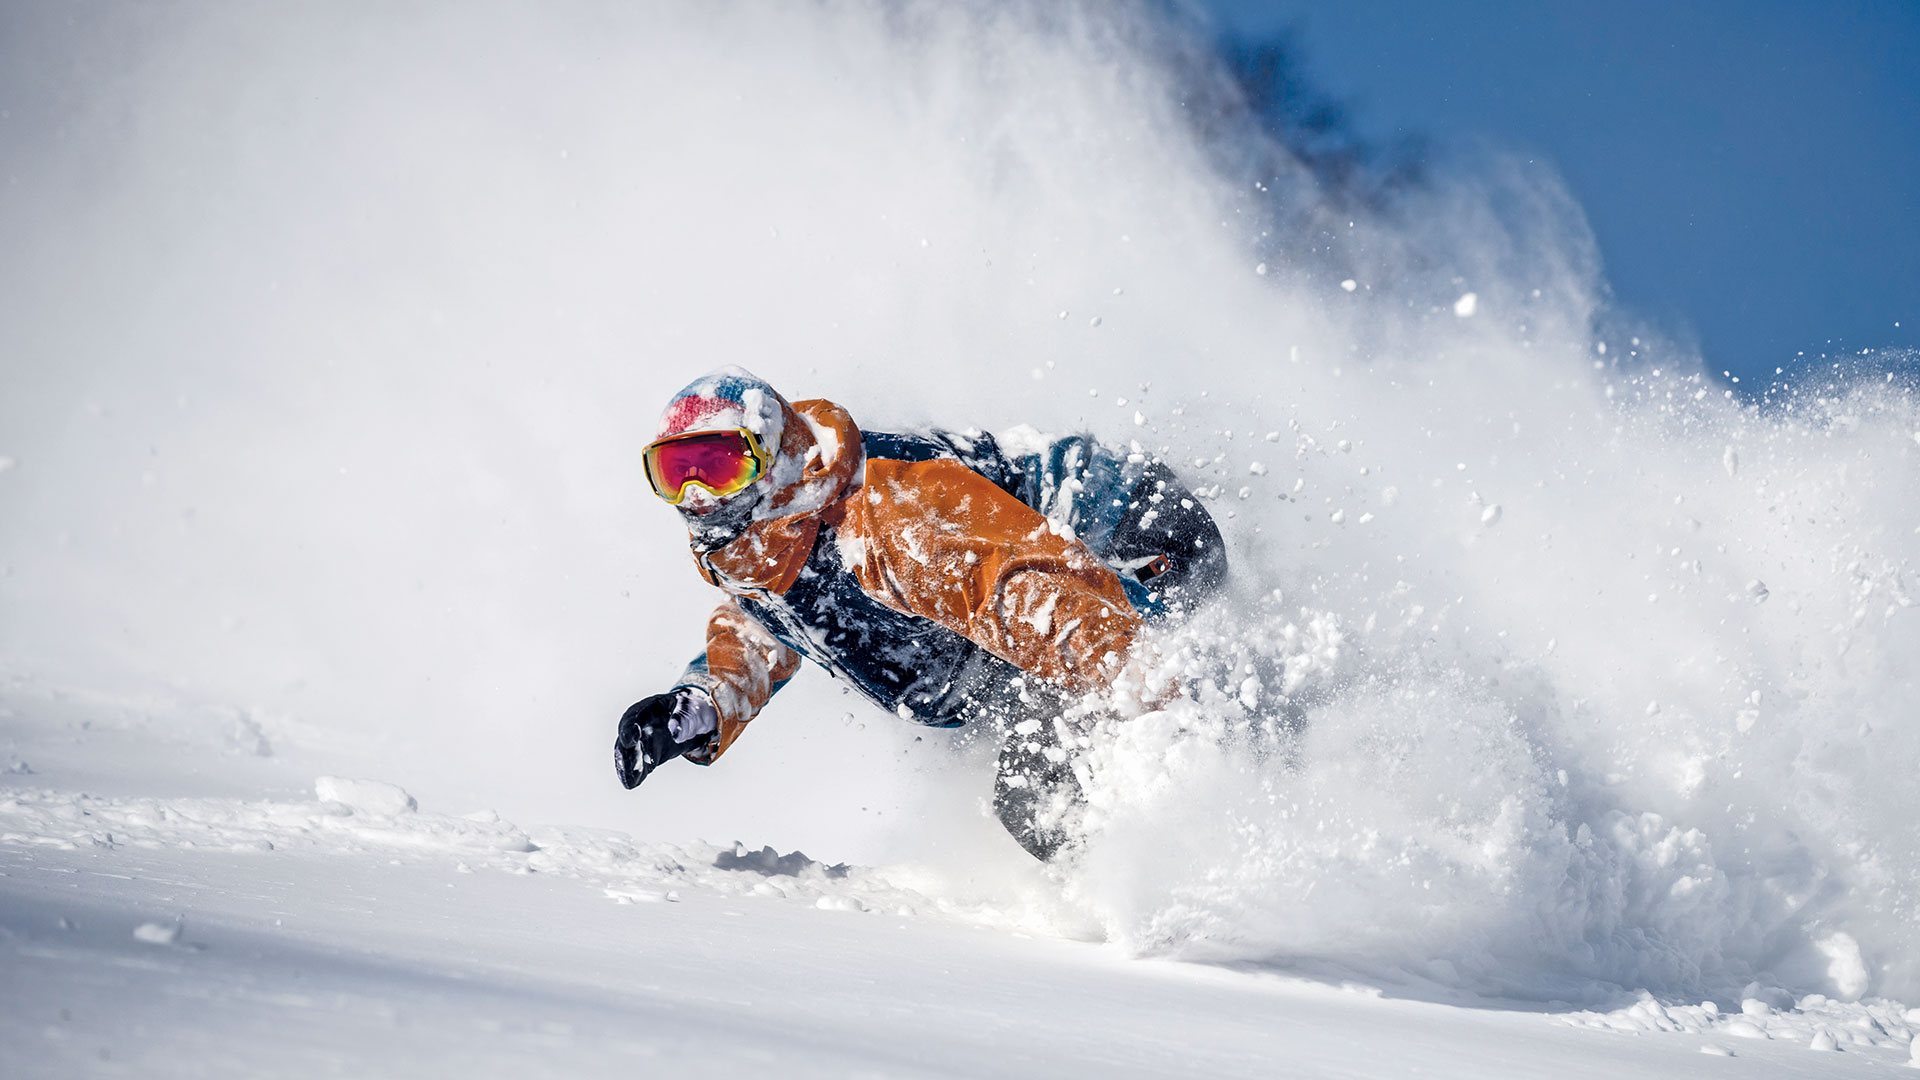
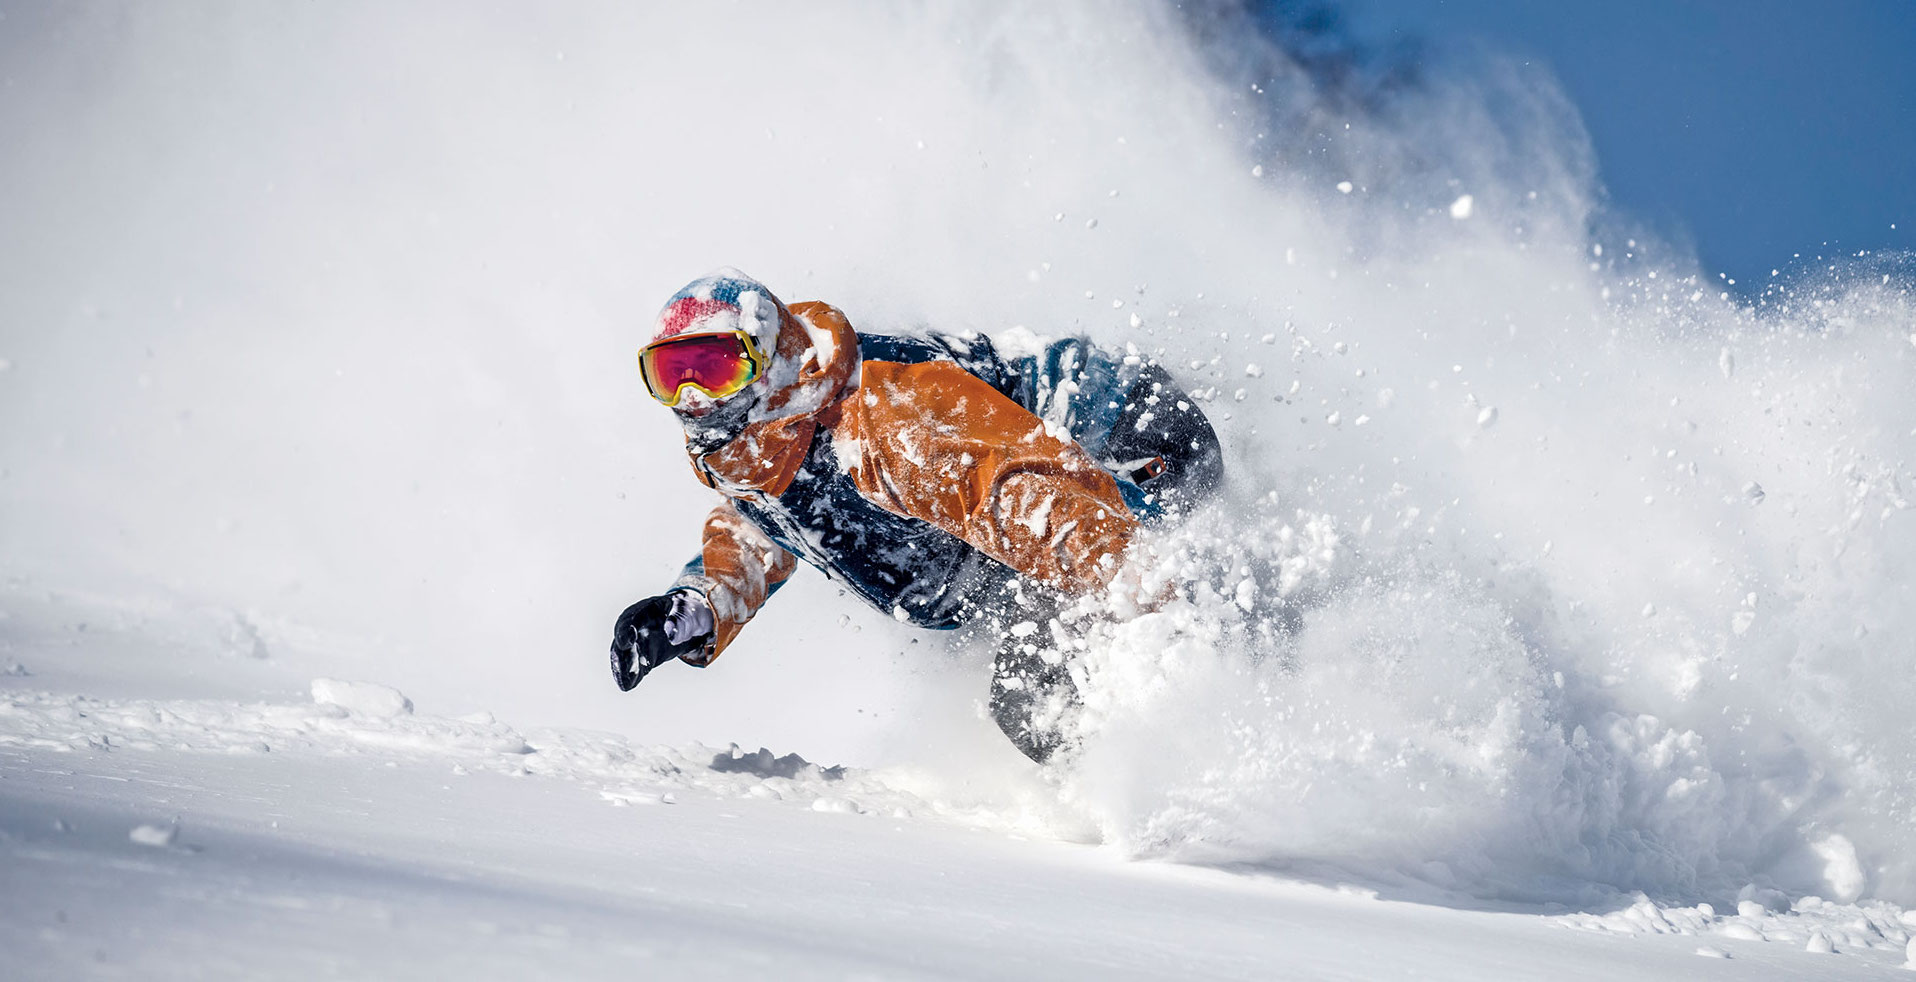
Added custom top images to snowboard and longboard video views

diff --git a/src/app/snowboards/snowboards-videos/snowboards-videos.component.html b/src/app/snowboards/snowboards-videos/snowboards-videos.component.html
@@ -1,10 +1,12 @@
 <div id="content">
   <!--<div id="content-ajax">-->
-      <div id="main">
-        <div class="container">
-          <h1 class="title-has-line text-align-center">Snowboard Videos</h1>
+	<div class="top-parallax" style="background-image:url('../../../assets/img/snowboards/videos/snowboard-video-hero.jpg')"></div>
 
-          <ul class="our-team">
+	<div id="main">
+		<div class="container">
+			<h1 class="title-has-line text-align-center">Snowboard Videos</h1>
+
+			<ul class="our-team">
 						<li class="team-member" style="background-image:url('../../../assets/img/snowboards/videos/1-Action=thumbnail&amp;Width=500&amp;Height=500&amp;algorithm=fill_proportional.png');">
 							<div class="team-overflow">
 								<div class="team-info">
@@ -307,9 +309,8 @@
 						</li>
 					</ul>
 
-
-        </div>
-      </div>
+		</div>
+	</div>
 
   <!--</div>-->
 </div>

diff --git a/src/app/longboards/longboards-videos/longboards-videos.component.html b/src/app/longboards/longboards-videos/longboards-videos.component.html
@@ -1,5 +1,7 @@
 <div id="content">
   <!--<div id="content-ajax">-->
+	<div class="top-parallax" style="background-image:url('../../../assets/img/longboards/videos/longboard-video-hero.jpg')"></div>
+
       <div id="main">
         <div class="container">
           <h1 class="title-has-line text-align-center">Longboard Videos</h1>

diff --git a/src/app/snowboards/snowboards.component.scss b/src/app/snowboards/snowboards.component.scss
@@ -4,8 +4,8 @@
 
 
 .top-parallax {
-    height: 650px;
-    top: 120px;
+    height: 690px;
+    // top: 120px;
     background-attachment: fixed;
     background-position: center;
     background-repeat: no-repeat;
@@ -14,6 +14,7 @@
 
 #main {
     margin-top: 10px;
+	padding: 40px;
 }
 
 

diff --git a/src/app/longboards/longboards-videos/longboards-videos.component.scss b/src/app/longboards/longboards-videos/longboards-videos.component.scss
@@ -1,3 +1,13 @@
+.top-parallax {
+    height: 700px;
+    top: 120px;
+    background-attachment: fixed;
+    background-position: center;
+    background-repeat: no-repeat;
+    background-size: cover;
+}
+
+
 #main {
-    padding: 200px;
+    padding: 50px;
 }

diff --git a/src/app/snowboards/snowboards-videos/snowboards-videos.component.scss b/src/app/snowboards/snowboards-videos/snowboards-videos.component.scss
@@ -1,3 +1,12 @@
+.top-parallax {
+    height: 700px;
+    top: 120px;
+    background-attachment: fixed;
+    background-position: center;
+    background-repeat: no-repeat;
+    background-size: cover;
+}
+
 #main {
-    padding: 200px;
+    padding: 50px;
 }

diff --git a/src/app/longboards/longboards-tech/longboards-tech.component.scss b/src/app/longboards/longboards-tech/longboards-tech.component.scss
@@ -4,7 +4,7 @@
     background-attachment: fixed;
     background-position: center;
     background-repeat: no-repeat;
-    background-size: cover;
+    background-size: contain;
 }
 
 #main {
